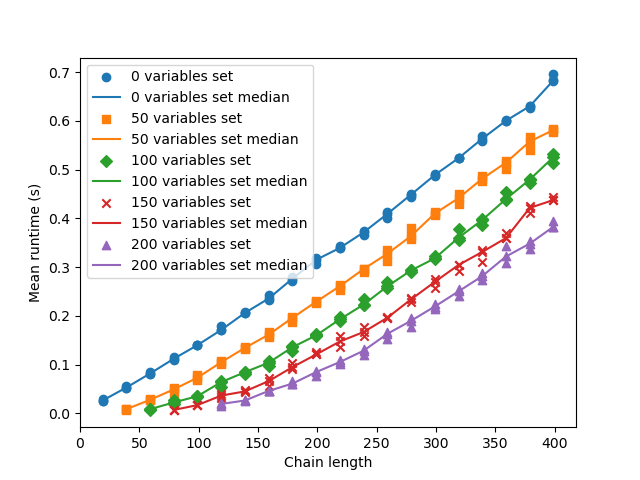
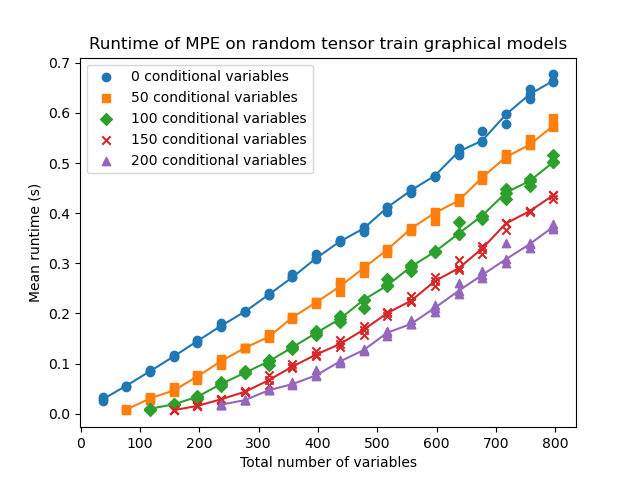
added source to tensor train image, split up computing and plotting runtimes

diff --git a/src/compute_runtimes.py b/src/compute_runtimes.py
@@ -1,7 +1,7 @@
+import pickle
 import time
 from collections import defaultdict
 
-import matplotlib.pyplot as plt
 import numpy as np
 from tqdm import tqdm
 
@@ -27,45 +27,36 @@ def benchmark_mpe(models: list[GraphicalModel], queries_per_model: list[list[Que
     return [measure_queries(models[i], queries_per_model[i]) for i in tqdm(range(n_models), desc="benchmarking all models", leave=False)]
 
 
-def plot_runtimes(runtimes: list[list[int]], models: list[GraphicalModel], queries_per_model: list[list[Query]], save_file: str):
+def compute_runtimes(runtimes: list[list[int]], models: list[GraphicalModel], queries_per_model: list[list[Query]], save_file: str):
     chain_lengths = [model.n_variables // 2 for model in models]
     # match how many variables each query has set as evidence vs runtime
-    n_variables_set_to_runtimes: dict[int, list[int]] = defaultdict(list)
-    n_variables_set_to_chain_lengths: dict[int, list[int]] = defaultdict(list)
+    n_conditional_variables_to_runtimes: dict[int, list[int]] = defaultdict(list)
+    n_conditional_variabales_to_chain_lengths: dict[int, list[int]] = defaultdict(list)
     for i in range(len(models)):
         for j in range(len(queries_per_model[i])):
             chain_length = chain_lengths[i]
             n_variables_set = len(queries_per_model[i][j][1])
             runtime = runtimes[i][j]
-            n_variables_set_to_runtimes[n_variables_set].append(runtime)
-            n_variables_set_to_chain_lengths[n_variables_set].append(chain_length)
+            n_conditional_variables_to_runtimes[n_variables_set].append(runtime)
+            n_conditional_variabales_to_chain_lengths[n_variables_set].append(chain_length)
     # get the median of the runtimes for each chain length and number of variables set
-    n_variables_set_to_median_runtime: dict[int, tuple[list[int], list[float]]] = {}
-    for n_variables_set in n_variables_set_to_runtimes.keys():
+    n_conditional_to_median_runtime: dict[int, tuple[list[int], list[float]]] = {}
+    for n_variables_set in n_conditional_variables_to_runtimes.keys():
         runtimes_per_chain_length = defaultdict(list)
-        for chain_length, runtime in zip(n_variables_set_to_chain_lengths[n_variables_set], n_variables_set_to_runtimes[n_variables_set]):
+        for chain_length, runtime in zip(n_conditional_variabales_to_chain_lengths[n_variables_set], n_conditional_variables_to_runtimes[n_variables_set]):
             runtimes_per_chain_length[chain_length].append(runtime)
         sorted_chain_lengths = sorted(runtimes_per_chain_length.keys())
         medians = [np.median(runtimes_per_chain_length[chain_length]) for chain_length in sorted_chain_lengths]
-        n_variables_set_to_median_runtime[n_variables_set] = (sorted_chain_lengths, medians)
+        n_conditional_to_median_runtime[n_variables_set] = (sorted_chain_lengths, medians)
 
-    # plot the results
-    plt.xlabel("Chain length")
-    plt.ylabel("Mean runtime (s)")
-    markers = ["o", "s", "D", "x", "^"]
-    for n_variables_set, marker in zip(n_variables_set_to_runtimes.keys(), markers):
-        plt.scatter(n_variables_set_to_chain_lengths[n_variables_set], n_variables_set_to_runtimes[n_variables_set], label=f"{n_variables_set} variables set", marker=marker)
-        sorted_chain_lengths, medians = n_variables_set_to_median_runtime[n_variables_set]
-        plt.plot(sorted_chain_lengths, medians, label=f"{n_variables_set} variables set median")
-    plt.legend()
-    plt.savefig(save_file)
-    print(f"Saved plot to {save_file}")
+    with open(save_file, "wb") as f:
+        pickle.dump((n_conditional_variables_to_runtimes, n_conditional_variabales_to_chain_lengths, n_conditional_to_median_runtime), f)
 
 
 def main():
     models, queries_per_model = gen_benchmarks()
     runtimes = benchmark_mpe(models, queries_per_model)
-    plot_runtimes(runtimes, models, queries_per_model, "graphics/runtimes.png")
+    compute_runtimes(runtimes, models, queries_per_model, "measurements/runtime.pkl")
 
 
 if __name__ == "__main__":

diff --git a/src/plot_runtimes.py b/src/plot_runtimes.py
@@ -1,0 +1,28 @@
+import pickle
+
+import matplotlib.pyplot as plt
+import numpy as np
+
+
+def main():
+    with open("measurements/runtime.pkl", "rb") as f:
+        n_conditional_variables_to_runtimes, n_conditional_variabales_to_chain_lengths, n_conditional_to_median_runtime = pickle.load(f)
+
+    # plot the results
+    total_num_variables = lambda chain_length: 2 * chain_length - 1
+    save_file = "graphics/runtimes.png"
+    plt.title("Runtime of MPE on random tensor train graphical models")
+    plt.xlabel("Total number of variables")
+    plt.ylabel("Mean runtime (s)")
+    markers = ["o", "s", "D", "x", "^"]
+    for n_variables_set, marker in zip(n_conditional_variables_to_runtimes.keys(), markers):
+        plt.scatter(total_num_variables(np.array(n_conditional_variabales_to_chain_lengths[n_variables_set])), n_conditional_variables_to_runtimes[n_variables_set], label=f"{n_variables_set} conditional variables", marker=marker)
+        sorted_chain_lengths, medians = n_conditional_to_median_runtime[n_variables_set]
+        plt.plot(total_num_variables(np.array(sorted_chain_lengths)), medians)
+    plt.legend()
+    plt.savefig(save_file)
+    print(f"Saved plot to {save_file}")
+
+
+if __name__ == "__main__":
+    main()

diff --git a/graphics/tensor_train.tex b/graphics/tensor_train.tex
@@ -1,0 +1,19 @@
+\documentclass[tikz, margin=2mm]{standalone}
+
+\begin{document}
+\begin{tikzpicture}
+    \node[circle, draw] (T1) at (0,0) {$T_1$};
+    \node[circle, draw] (T2) at (2,0) {$T_2$};
+    \node[circle, draw] (T3) at (4,0) {$T_3$};
+    \node[circle, draw] (T4) at (6,0) {$T_4$};
+
+    \draw (T1) -- node[above]{$x_1$} (T2);
+    \draw (T2) -- node[above]{$x_2$} (T3);
+    \draw (T3) -- node[above]{$x_3$} (T4);
+
+    \draw (T1) -- ++(0,-1) node[midway, right]{$x_4$};
+    \draw (T2) -- ++(0,-1) node[midway, right]{$x_5$};
+    \draw (T3) -- ++(0,-1) node[midway, right]{$x_6$};
+    \draw (T4) -- ++(0,-1) node[midway, right]{$x_7$};
+\end{tikzpicture}
+\end{document}

diff --git a/README.md b/README.md
@@ -9,7 +9,7 @@
 ## What it does
 
 This repository is a proof-of-concept implentation of MPE in tensor networks. It uses derivatives of a tensor contraction over the tropical (max-plus) semiring, that maximizes the probability in a discrete graphical model.
-The main file to execute is `src/runtime.py`. When you execute this program, it first generates hidden markov models.
+The main file to execute is `src/runtime.py`. When you execute this program, it first generates random graphical models.
 It generates a bunch of random queries for each model that you can customize in `src/random_benchmarks.py`.
 Then, for each model, every query is run 10 times and the runtimes are plotted in `graphics/runtimes.png`.
 
@@ -19,7 +19,7 @@ Then, for each model, every query is run 10 times and the runtimes are plotted i
 
 The generated models are tensor trains. Given the tensor train has length $n$, then the model has $2n - 1$ variables, where the first $n - 1$ variables are hidden, and the last $n$ variables are observed.
 
-![Hidden Markov Model](graphics/hidden_markov_model.png)
+![Tensor Train with 4 factors](graphics/tensor_train.png)
 
 #### Parameters for model generation
 
